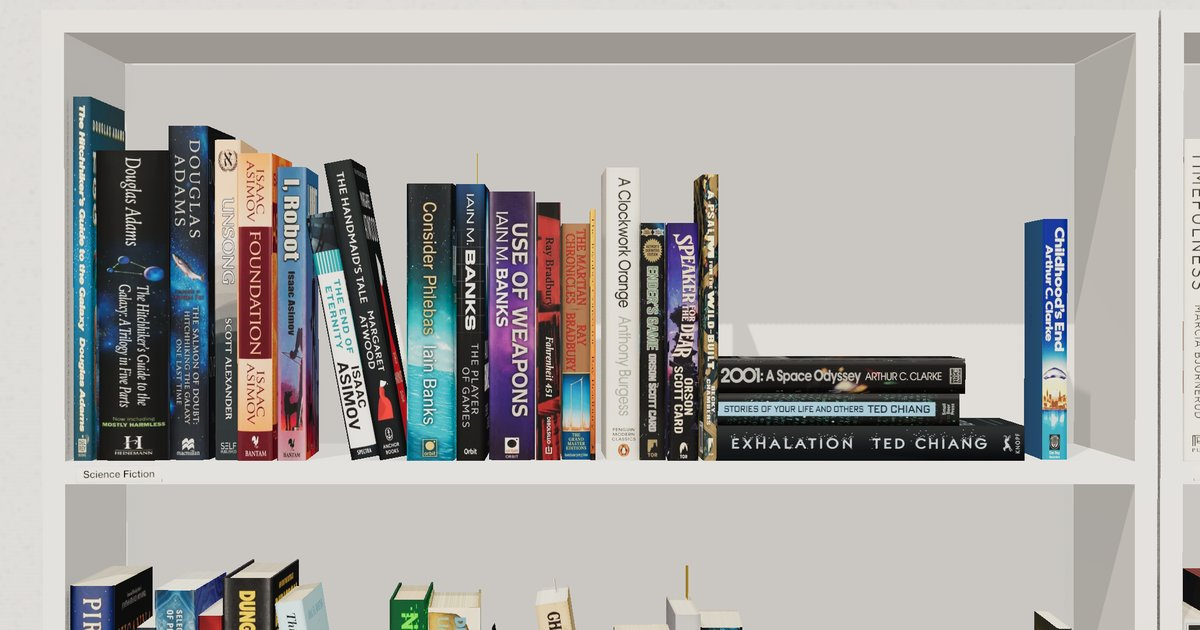
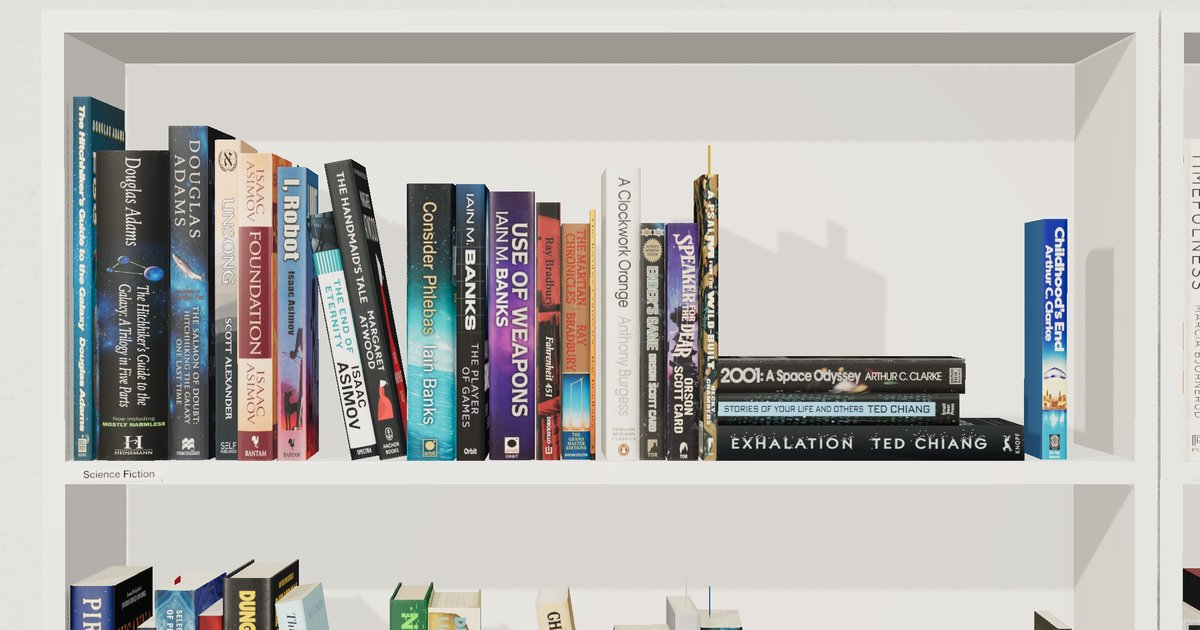
Window light and age-based spine wear
- Key light is now a soft spot from a window up and to the left, plus a
  shadowless fill from the same spot, so the left case is brighter and shadows
  rake gently right. ?flatlight=1 restores the old overhead light.
- Spines wear with time since I read them (smus review month / Goodreads read
  date; undated Goodreads books count as old): sun fading, short reading
  creases on paperbacks, head/tail rubbing. Gloss varies per book. ?nowear=1
  shows pristine books.
- Book meshes use a per-book seeded RNG, so bookmarks no longer move between
  reloads (they used the shared sequence in image-load order).

diff --git a/poc/preview/index.html b/poc/preview/index.html
@@ -363,11 +363,83 @@ const loadImg = async (url, tries = 3) => {
 };
 // Prebuilt atlases (build_atlases.py) carry cover | back | spine; the page paints the page-edge band and the
 // plain band (board edges) itself, so they can differ per book without being baked into the download.
-function atlasTexture(img, pages, edge) {
+// Per-book wear, painted onto the spine region of the atlas. Seeded by slug (its own RNG, so the layout's jitter sequence
+// is untouched) and drawn in atlas-relative units, so the shelf and card textures wear identically.
+const MONTHS = 'jan feb mar apr may jun jul aug sep oct nov dec'.split(' ');
+// Years since I read it: smus review month ("Jul 2020") or Goodreads read date ("2019/05/12"). Undated Goodreads
+// books are mostly old reads shelved after the fact, so they count as long ago.
+const yearsSinceRead = b => {
+  const r = b.review || {}, now = new Date().getFullYear() + new Date().getMonth() / 12;
+  let m = /^(\w{3})\w* (\d{4})/.exec(r.posted || '');
+  if (m && MONTHS.includes(m[1].toLowerCase())) return now - (+m[2] + MONTHS.indexOf(m[1].toLowerCase()) / 12);
+  m = /^(\d{4})[\/-](\d{1,2})/.exec(r.read || '');
+  return m ? now - (+m[1] + (m[2] - 1) / 12) : 15;
+};
+const wearOf = b => {
+  let h = 2166136261; for (const ch of b.slug) h = Math.imul(h ^ ch.charCodeAt(0), 16777619);
+  let st = (h >>> 0) % 2147483646 + 1; const r = () => ((st = (st * 16807) % 2147483647) / 2147483647);
+  const paper = b.binding !== 'hardcover', t = b.dims.t;
+  const age = Math.min(1, Math.max(0, (yearsSinceRead(b) - 1) / 12));   // 0: read this past year .. 1: 13+ years ago
+  const [r1, r2, r3, r4, r5, r6] = [r(), r(), r(), r(), r(), r()];   // fixed draw count keeps the stream stable
+  return {
+    age,
+    fade: r1 < 0.1 + 0.35 * age ? (0.04 + r2 * 0.1) * (0.4 + 0.6 * age) : 0,   // sun-faded spine (covers, hidden, stay fresh)
+    creases: paper && t > 9 && r3 < 0.1 + 0.4 * age ? 1 + Math.floor(r4 * Math.min(3, t / 8) * age) : 0,   // read-cracked paperbacks
+    scuff: (0.15 + r5 * 0.35) * (0.25 + 0.75 * age),                // head/tail rubbing
+    gloss: paper ? 0.42 + r6 * 0.3 : 0.32 + r6 * 0.25,             // laminated covers vary; jackets a bit glossier
+    r,
+  };
+};
+function paintWear(g, W, H, b) {
+  const w = b.wear || (b.wear = wearOf(b));
+  let st = w.seed ?? (w.seed = Math.floor(w.r() * 2147483646) + 1);
+  const r = () => ((st = (st * 16807) % 2147483647) / 2147483647);   // replayable: same marks at every resolution
+  const [x0, y0, x1, y1] = REG.spine, sx = x0 * W, sy = y0 * H, sw = (x1 - x0) * W, sh = (y1 - y0) * H;
+  const px = H / 512;                                               // ~1 lo-res pixel
+  g.save();
+  g.beginPath(); g.rect(sx, sy, sw, sh); g.clip();
+  if (w.fade) {                                                     // sun-faded: washed out, slightly warm
+    g.globalCompositeOperation = 'screen'; g.fillStyle = `rgba(236,226,206,${w.fade})`; g.fillRect(sx, sy, sw, sh);
+    g.globalCompositeOperation = 'saturation'; g.fillStyle = `rgba(128,128,128,${w.fade * 1.6})`; g.fillRect(sx, sy, sw, sh);
+  }
+  g.globalCompositeOperation = 'screen';
+  for (let i = 0; i < w.creases; i++) {                             // creases run along the spine, wobbly and partial
+    const len = sh * (0.15 + r() * 0.4), ya = sy + r() * (sh - len), xc = sx + sw * (0.15 + r() * 0.7);
+    const pts = [[xc, ya]];
+    for (let y = ya, x = xc; y < ya + len; ) { y += sh / 50; x += (r() - 0.5) * sw * 0.03; pts.push([x, y]); }
+    const lw = Math.max(1, px * (0.7 + r() * 0.8)), a = (0.25 + r() * 0.25) * (0.6 + 0.4 * w.age);
+    const stroke = (dx, style, op) => { g.globalCompositeOperation = op; g.strokeStyle = style; g.lineWidth = lw;
+      g.beginPath(); pts.forEach(([x, y], i) => i ? g.lineTo(x + dx, y) : g.moveTo(x + dx, y)); g.stroke(); };
+    stroke(lw, `rgba(60,50,40,${a * 0.35})`, 'multiply');           // the fold's shadow side (shows on pale spines)
+    stroke(0, `rgba(252,248,240,${a})`, 'screen');                   // cracked ink / lit ridge (shows on dark ones)
+  }
+  for (const [ey, dir] of [[sy, 1], [sy + sh, -1]]) {               // scuffed head and tail: speckles thinning inward
+    g.globalCompositeOperation = 'screen';
+    const band = sh * 0.012;                                        // rubbing hugs the edge (~2-3 mm)
+    const grd = g.createLinearGradient(0, ey, 0, ey + dir * band);
+    grd.addColorStop(0, `rgba(240,234,222,${0.35 * w.scuff})`); grd.addColorStop(1, 'rgba(240,234,222,0)');
+    g.fillStyle = grd; g.fillRect(sx, Math.min(ey, ey + dir * band), sw, band);
+    const n = Math.round(60 * w.scuff * (W / 256) ** 1.5);
+    for (let i = 0; i < n; i++) {                                   // a few chips, densest right at the edge
+      const d = Math.pow(r(), 3) * band * 1.6;
+      g.fillStyle = `rgba(245,240,230,${(0.2 + r() * 0.4) * w.scuff})`;
+      g.fillRect(sx + r() * sw, ey + dir * d - px / 2, px * (0.6 + r() * 2.5), px * (0.3 + r() * 0.6));
+    }
+  }
+  for (const ex of [sx, sx + sw]) {                                 // light rubbing where the spine folds onto the covers
+    const grd = g.createLinearGradient(ex, 0, ex + (ex === sx ? 1 : -1) * sw * 0.06, 0);
+    grd.addColorStop(0, `rgba(240,234,222,${0.2 * w.scuff})`); grd.addColorStop(1, 'rgba(240,234,222,0)');
+    g.fillStyle = grd; g.fillRect(Math.min(ex, ex - sw * 0.06), sy, sw * 0.12, sh);
+  }
+  g.restore();
+}
+
+function atlasTexture(img, pages, edge, b) {
   const W = img.naturalWidth || img.width, H = img.naturalHeight || img.height;
   const c = document.createElement('canvas'); c.width = W; c.height = H;
   const g = c.getContext('2d');
   g.drawImage(img, 0, 0);
+  if (b && !params.get('nowear')) paintWear(g, W, H, b);           // debug: ?nowear=1 for a pristine shelf
   const band = ([x0, y0, x1, y1]) => [x0 * W, y0 * H, (x1 - x0) * W, (y1 - y0) * H];
   g.drawImage(pages, ...band(REG.pages));
   g.fillStyle = edge.getStyle(); g.fillRect(...band(REG.plain));
@@ -507,11 +579,15 @@ function hardSpineGeometry(t, h, zBack, bulge) {
 }
 
 async function bookMesh(b) {
+  // Per-book RNG: these meshes build concurrently (after awaits), so the shared sequence would hand bookmarks out
+  // by image-load order and move them on every reload.
+  const rand = (b.wear || (b.wear = wearOf(b))).r, jitter = a => (rand() - 0.5) * 2 * a;
   const edge = new THREE.Color(b.atlas.edge);
   const { h, w, t } = b.dims;
   const pages = pageCanvas(t);
   const lo = await loadImg(b.atlas.lo);
-  const material = new THREE.MeshStandardMaterial({ map: lo ? atlasTexture(lo, pages, edge) : null, color: lo ? 0xffffff : edge, roughness: 0.6 });
+  const material = new THREE.MeshStandardMaterial({ map: lo ? atlasTexture(lo, pages, edge, b) : null, color: lo ? 0xffffff : edge,
+    roughness: params.get('nowear') ? 0.6 : (b.wear || (b.wear = wearOf(b))).gloss });
   const g = new THREE.Group();
   let geo;
   if (b.binding === 'hardcover' && t > 2 * BOARD + 2) {
@@ -567,7 +643,7 @@ async function setHiRes(m, on) {
   ap.want = true;
   const img = await decode(m.userData.book.atlas.card);
   if (!img || !ap.want) return;
-  ap.card = atlasTexture(img, ap.pages, ap.edge); img.close?.();
+  ap.card = atlasTexture(img, ap.pages, ap.edge, m.userData.book); img.close?.();
   useTex(m, ap.card);
 }
 
@@ -734,13 +810,30 @@ const notes = [], pivots = [];
 layoutAll(params.get('sort') === 'colour');
 
 // ---------- lights ----------
-const key = new THREE.DirectionalLight(0xfff0dc, 2.0);
-key.position.set(sceneW * 0.3 - 150, sceneH + 380, 900 + sceneH * 0.4);
-key.target.position.set(sceneW / 2, sceneH / 2, -depth / 2);
+// Daylight from a window up and off to the left: a broad soft spot whose falloff brightens the left bookcase and lets
+// the right one drift a little darker, with shadows raking rightwards. (?flatlight=1: the old even overhead key.)
+const flat = !!params.get('flatlight');
+const key = flat ? new THREE.DirectionalLight(0xfff0dc, 2.0) : new THREE.SpotLight(0xfff2e0, 1.7);
+if (flat) key.position.set(sceneW * 0.3 - 150, sceneH + 380, 900 + sceneH * 0.4);
+else key.position.set(-800, sceneH + 500, 2300);
+key.target.position.set(flat ? sceneW / 2 : sceneW * 0.28, sceneH * 0.55, -depth / 2);
 key.castShadow = true;
 key.shadow.mapSize.set(4096, 4096);
 const sh = Math.max(sceneW, sceneH) / 2 + 300;
-Object.assign(key.shadow.camera, { left: -sh, right: sh, top: sh, bottom: -sh, near: 10, far: 5000 });
+if (flat) Object.assign(key.shadow.camera, { left: -sh, right: sh, top: sh, bottom: -sh, near: 10, far: 5000 });
+else {
+  key.decay = 0;                                                    // no distance falloff: the gradient comes from the cone
+  const dir = key.target.position.clone().sub(key.position).normalize();
+  const off = p => Math.acos(dir.dot(p.clone().sub(key.position).normalize()));
+  const far = Math.max(...[[sceneW + 500, 0], [sceneW + 500, sceneH + 300], [-400, 0], [-400, sceneH + 300]]
+    .map(([x, y]) => off(new THREE.Vector3(x, y, 0))));
+  key.angle = far * 1.25; key.penumbra = 0.85;
+  key.shadow.camera.near = 500; key.shadow.camera.far = 8000;
+  // Same window, no shadow: a window is a big source, so its shadows are never fully dark.
+  const fill = new THREE.SpotLight(0xfff2e0, 0.9, 0, key.angle, 1, 0);
+  fill.position.copy(key.position); fill.target.position.copy(key.target.position);
+  scene.add(fill, fill.target);
+}
 key.shadow.bias = -0.0004; key.shadow.normalBias = 0.5;
 scene.add(key, key.target);
 scene.add(new THREE.HemisphereLight(0xfff6ea, 0x8a7560, 0.8));
